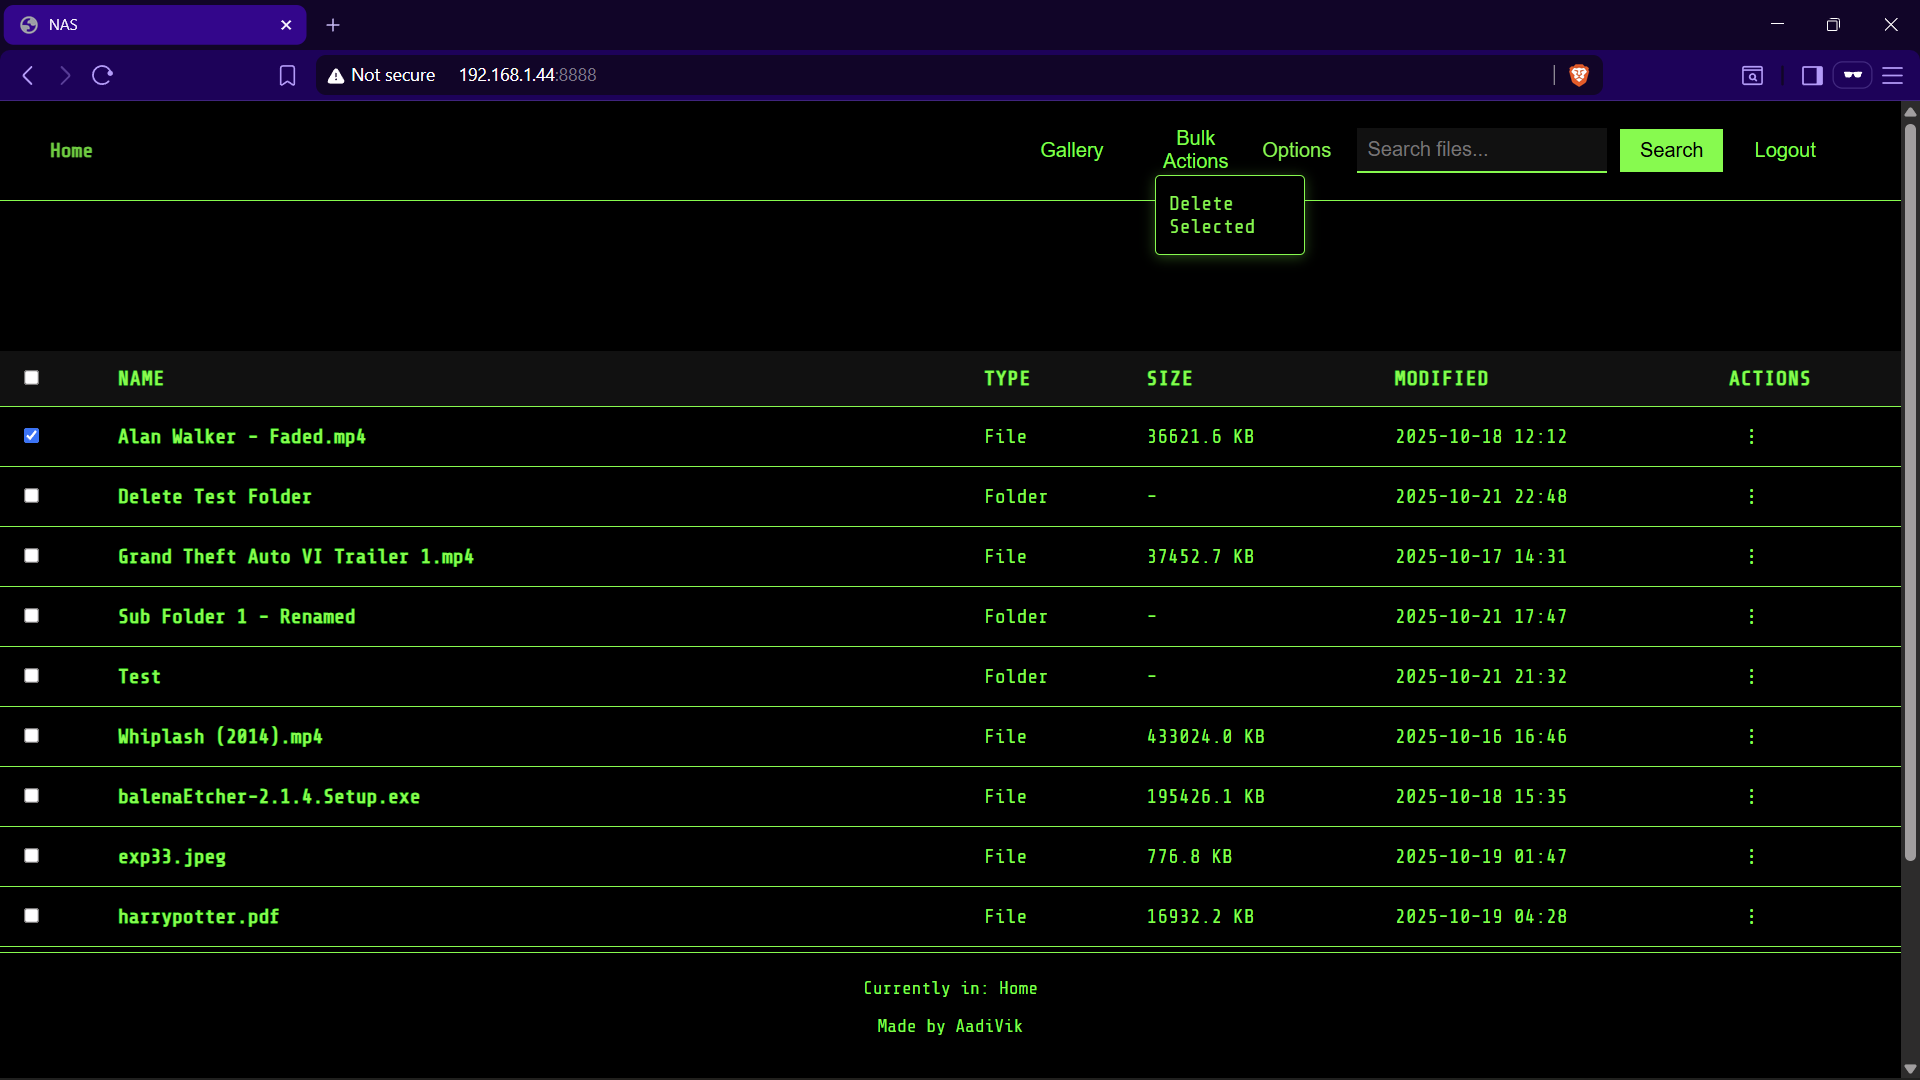
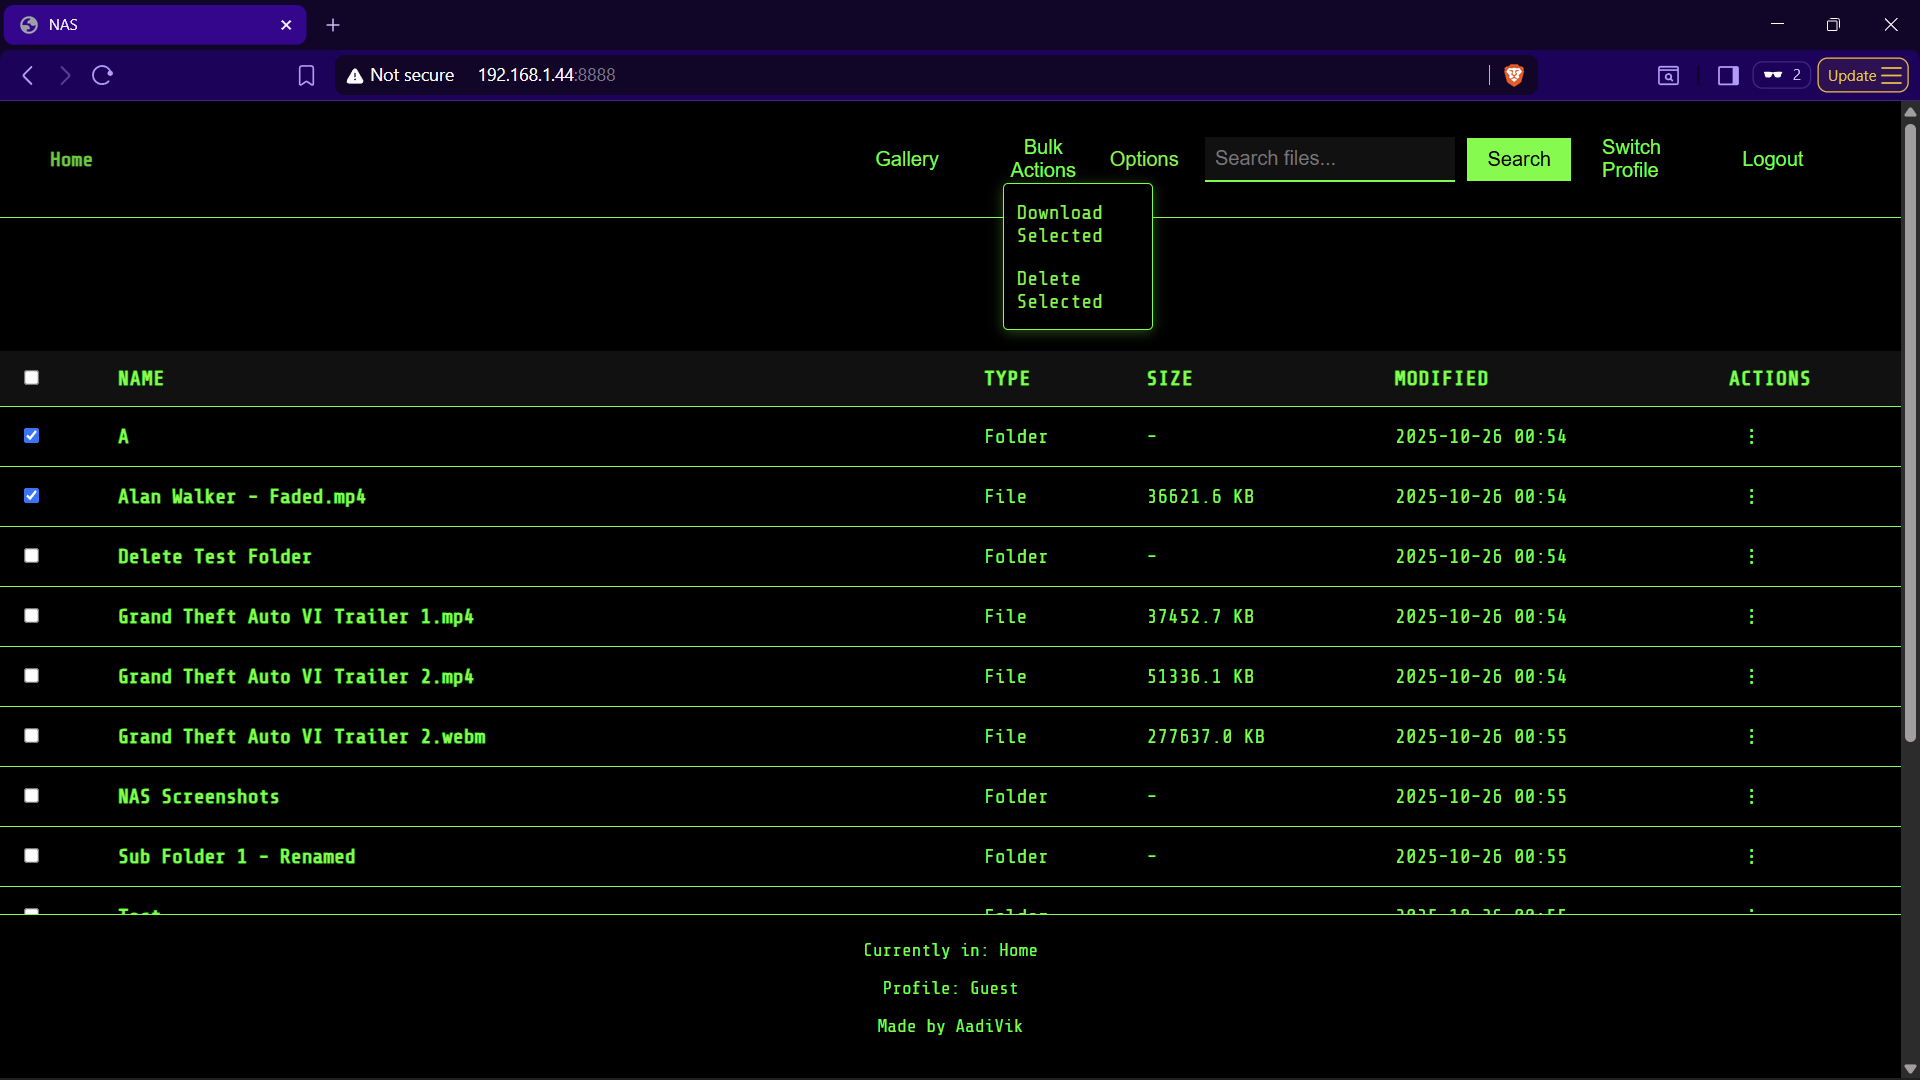
Updated README md file with bulk download and public folder sharing info

diff --git a/README.md b/README.md
@@ -15,8 +15,10 @@ Network Attached Storage on a Python server running in Ubuntu
 - Progress bar on upload file
 - Drag and Drop upload
 - Link Sharing
+- Public folder sharing as separate HTML page
 - Download and delete file
 - Download folder as zip and delete folder
+- Bulk download using checkbox
 - Rename file and folder
 - Delete file and folder
 - Bulk delete using checkbox
@@ -108,6 +110,10 @@ Network Attached Storage on a Python server running in Ubuntu
 ## Link Sharing
 
 ![Link_Sharing](assets/Link_Sharing.png)
+
+## Public Folder Sharing
+
+![Public_Folder_Sharing](assets/Public_Folder_Sharing.png)
 
 ## More options on a File
 
